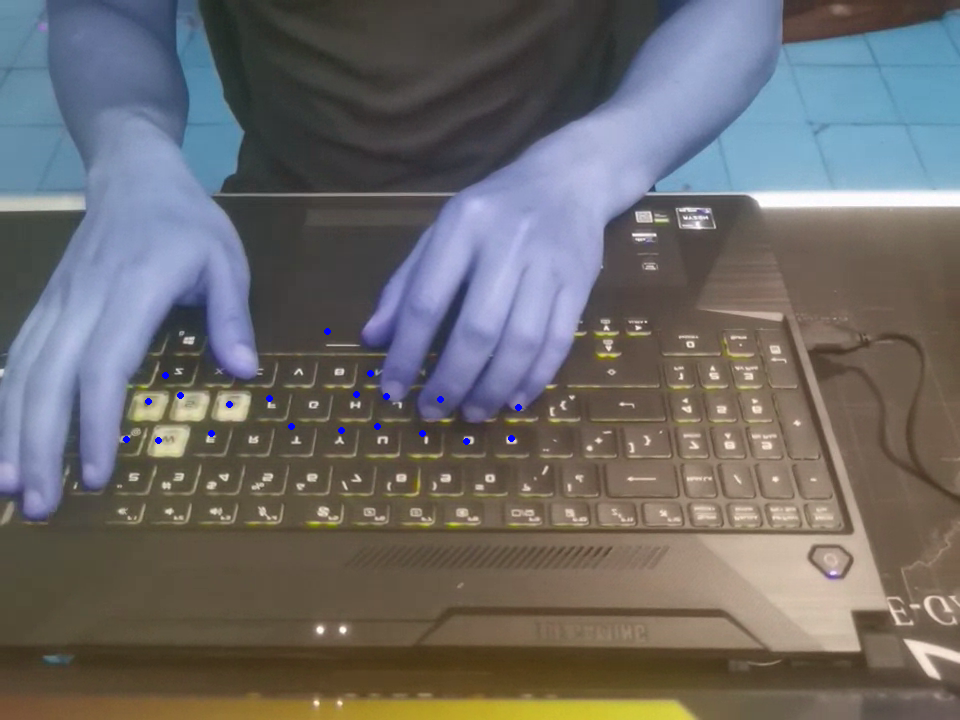
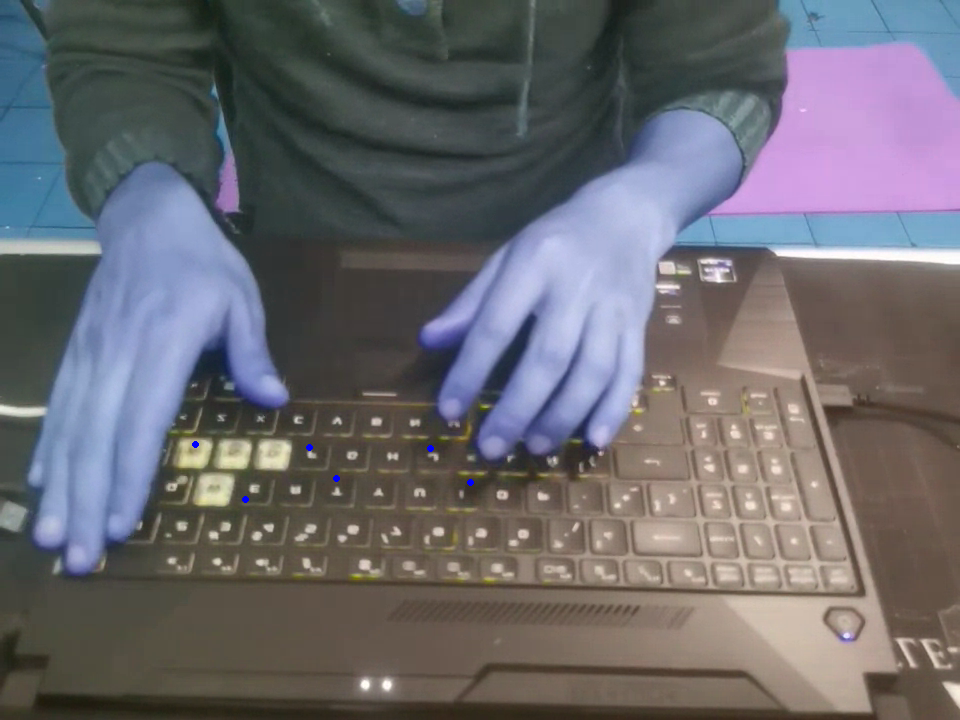
Añade las coordenadas de los puntos para tener una referencia por si se llegara a mover la camara

diff --git a/static/css/style.css b/static/css/style.css
@@ -17,7 +17,7 @@ body {
 .media {
   display: flex;
   justify-content: center;
-  max-width: 400px;
+  max-width: 600px;
 }
 
 video {

diff --git a/main.py b/main.py
@@ -5,6 +5,7 @@ import time
 import threading
 import os
 import numpy as np
+from av import VideoFrame
 from fastapi import FastAPI
 from fastapi import FastAPI, WebSocket
 from fastapi.staticfiles import StaticFiles
@@ -50,9 +51,7 @@ SSO = GoogleSSO(client_id=GOOGLE_CLIENT_ID, client_secret=GOOGLE_SECRET,
 
 executor = ThreadPoolExecutor(max_workers=8)
 
-width = 960
-height = 720
-dim = (width, height)
+dim = (960, 720)
 
 coords = {}
 first = True
@@ -70,26 +69,19 @@ class VideoTransformTrack(MediaStreamTrack):
         global frame_img
         frame = await self.track.recv()
         frame_img = frame
+        if coords and first == False:
+            img = frame.to_ndarray(format="bgr24")
+            img = cv2.cvtColor(cv2.flip(img, 2), cv2.COLOR_BGR2RGB)
+            #img = cv2.resize(img, dim, interpolation=cv2.INTER_AREA)
+            for data in coords:
+                img = cv2.circle(
+                    img, (int(coords[data][0] * frame.width), int(coords[data][1] * frame.height)), 2, (255, 0, 0), 2)
+            nf = cv2.cvtColor(img, cv2.COLOR_RGB2BGR)
+            nf = VideoFrame.from_ndarray(nf, format="bgr24")
+            nf.pts = frame.pts
+            nf.time_base = frame.time_base
+            return nf
         return frame
-
-
-class ThreadTestCoords(threading.Thread):
-    def __init__(self, data, channel):
-        threading.Thread.__init__(self)
-        self.data = data
-        self.channel = channel
-
-    def run(self):
-        between_callback(self.data, self.channel)
-
-
-class ThreadTestCoords2(threading.Thread):
-    def __init__(self, data):
-        threading.Thread.__init__(self)
-        self.data = data
-
-    def run(self):
-        between_callback2(self.data)
 
 
 async def set_keys(data):
@@ -115,14 +107,14 @@ async def set_keys(data):
             mano = results.multi_handedness[idx].classification[0].label
             mp_drawing.draw_landmarks(
                 frame, hand_landmarks, mp_hands.HAND_CONNECTIONS)
-            #cv2.imwrite("c1.png", frame)
+            # cv2.imwrite("c1.png", frame)
             if data in dis[mano]:
                 if data in coords:
                     coords[data] = np.add(coords[data], [hand_landmarks.landmark[dis[mano][data]].x,
                                                          hand_landmarks.landmark[dis[mano][data]].y, hand_landmarks.landmark[dis[mano][data]].z, 1]).tolist()
                 else:
                     coords[data] = ([hand_landmarks.landmark[dis[mano][data]].x,
-                                    hand_landmarks.landmark[dis[mano][data]].y, hand_landmarks.landmark[dis[mano][data]].z, 1])
+                                     hand_landmarks.landmark[dis[mano][data]].y, hand_landmarks.landmark[dis[mano][data]].z, 1])
 
     else:
         print("Enfoque la camara")
@@ -135,7 +127,7 @@ async def test_keys(data, channel):
     # Redimensiona la imagen para que las coordenadas no cambien
     frame = cv2.resize(frame, dim, interpolation=cv2.INTER_AREA)
     results = hands.process(frame)
-    #cv2.imwrite('c1.png', frame)
+    # cv2.imwrite('c1.png', frame)
     if data == " ":
         channel.send(data)
     else:
@@ -148,6 +140,8 @@ async def test_keys(data, channel):
                     else:
                         cv2.imwrite('c1.png', frame)
                         print("Error")
+        else:
+            print("error")
 
 
 """
@@ -164,25 +158,25 @@ def create_local_tracks(play_from=None):
 """
 
 
-@app.get("/", response_class=HTMLResponse)
+@ app.get("/", response_class=HTMLResponse)
 async def index(request: Request):
     return templates.TemplateResponse("inicio.html", {"request": request})
 
 
-@app.get("/auth/login")
+@ app.get("/auth/login")
 async def auth_init():
     """Initialize auth and redirect"""
     return await SSO.get_login_redirect(params={"prompt": "consent", "access_type": "offline"})
 
 
-@app.get("/camara")
+@ app.get("/camara")
 async def camara(request: Request):
     # user = await SSO.verify_and_process(request)
     # print(user)
     return templates.TemplateResponse("index.html", {"request": request})
 
 
-@app.get("/signup", response_class=HTMLResponse)
+@ app.get("/signup", response_class=HTMLResponse)
 async def camara(request: Request):
     return templates.TemplateResponse("signup.html", {"request": request})
 
@@ -209,13 +203,13 @@ async def websocket_endpoint(websocket: WebSocket):
         data = await websocket.receive_text()
         threads.append(ThreadTestCoords(data, websocket))
         threads.pop().start()
-        #_thread = threading.Thread(target=between_callback, args=(data, websocket))
+        # _thread = threading.Thread(target=between_callback, args=(data, websocket))
         # _thread.start()
 
 '''
 
 
-@app.post("/offer_cv")
+@ app.post("/offer_cv")
 async def offer(params: Offer):
     offer = RTCSessionDescription(sdp=params.sdp, type=params.type)
     pc = RTCPeerConnection()
@@ -223,23 +217,23 @@ async def offer(params: Offer):
     recorder = MediaBlackhole()
     relay = MediaRelay()
 
-    @pc.on("datachannel")
+    @ pc.on("datachannel")
     def on_datachannel(channel):
-        @channel.on("message")
+        @ channel.on("message")
         async def on_message(message):
             if first == True:
                 executor.submit(between_callback2, message)
             else:
                 executor.submit(between_callback, message, channel)
 
-    @pc.on("connectionstatechange")
+    @ pc.on("connectionstatechange")
     async def on_connectionstatechange():
         print("Connection state is %s" % pc.connectionState)
         if pc.connectionState == "false":
             await pc.close()
             pcs.discard(pc)
 
-    @pc.on("track")
+    @ pc.on("track")
     def on_track(track):
         if track.kind == "video":
             pc.addTrack(
@@ -247,7 +241,7 @@ async def offer(params: Offer):
                     track), transform=params.video_transform)
             )
 
-        @track.on("ended")
+        @ track.on("ended")
         async def on_ended():
             await recorder.stop()
     await pc.setRemoteDescription(offer)
@@ -261,7 +255,7 @@ pcs = set()
 args = ''
 
 
-@app.on_event("shutdown")
+@ app.on_event("shutdown")
 async def on_shutdown():
     # Close peer connections
     coros = [pc.close() for pc in pcs]
